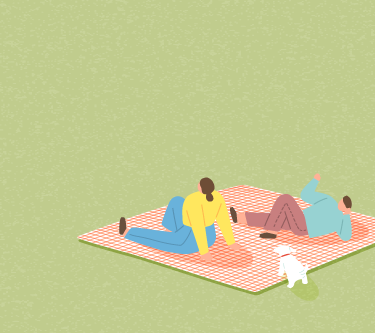
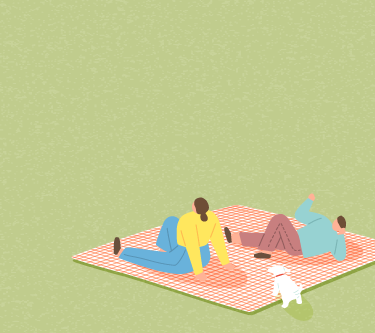
0907-1605-p
部分位置微調

Changed region(s): [[0.176, 0.5105, 1.0, 0.961]]

diff --git a/penny/css_p/Room_Info.css b/penny/css_p/Room_Info.css
@@ -142,7 +142,7 @@ body{
 }
 @media screen and (min-width:768px) {
     .room-banner{
-        margin-bottom: 10%;
+        margin-bottom: 9%;
     }
     .room-banner-container{
         width: 1680px;
@@ -157,7 +157,7 @@ body{
         width: 840px;
         height: 605px;
         margin-left: auto;
-        top: 360px;
+        top: 310px;
         right: 240px;
         background-color: var(--subColor_bgc);
         display: flex;
@@ -208,20 +208,17 @@ body{
     .room-banner-textbox span{
         display: inline-block;
     }
-    .room-banner-textbox br{
-        /* display: none; */
-    }
     .room-banner-ai01-imgbox{
         position: absolute;
         width: 640px;
-        top: 78%;
+        top: 80%;
         left: 28%;
     }
     .room-banner-ai02-imgbox{
         display: block;
         position: absolute;
         width: 350px;
-        top: 17%;
+        top: 12%;
         left: 68%;
     }
     .room-banner-ai02-imgbox img{

diff --git a/penny/css_p/Events_Page..css b/penny/css_p/Events_Page..css
@@ -119,16 +119,20 @@ body{
 }
 .events-banner-special-textbox h3{
     padding-bottom: 10px;
+    color: var(--white);
+    font-weight: 300;
 }
 .events-banner-special-textbox h2{
     font-size: var(--headline_28px);
     font-weight: 600;
-    color: var(--primaryColor_dark);
+    color: var(--secondaryColor_default);
     padding-bottom: 10px;
 }
 .events-banner-special-textbox p{
     width: 100%;
     font-size: var(--p_16px);
+    color: var(--white);
+    font-weight: 300;
     text-align: justify;
     line-height: 1.6;
     padding-bottom: 15px;
@@ -145,6 +149,6 @@ body{
     text-decoration: none;
     padding: 5px 20px;
     border-radius: 20px;
-    background-color: var(--primaryColor_dark);
+    background-color: var(--secondaryColor_default);
     color: var(--white);
 }

diff --git a/penny/Events_Page.html b/penny/Events_Page.html
@@ -31,7 +31,7 @@
                 <div class="events-banner-special-textbox">
                     <h3>PACKAGE EVENTS</h3>
                     <h2>每月特別活動</h2>
-                    <p>N.A.P.精心準備的主題活動，不僅有配合節慶的每月活動外，還有專業動物醫學講師開班舉辦講座課程，快與您的毛孩子一同參加並留下美好回憶喔吧</p>
+                    <p>每月有配合節慶的活動外，還有專業動物醫學講師開班舉辦講座課程，快來參加並留下美好回憶喔吧！</p>
                     <div class="events-banner-special-btn">
                         <a href="">查看活動</a>
                     </div>
